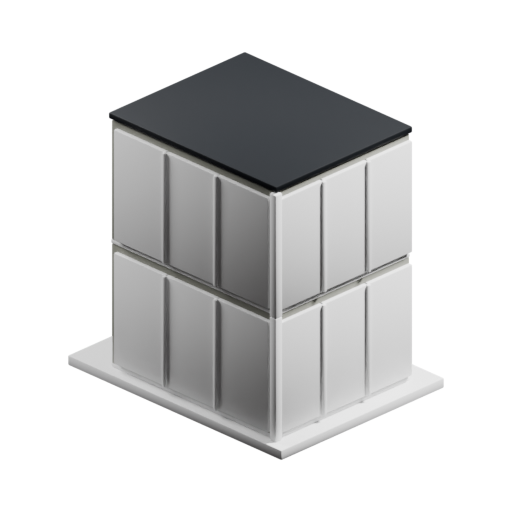
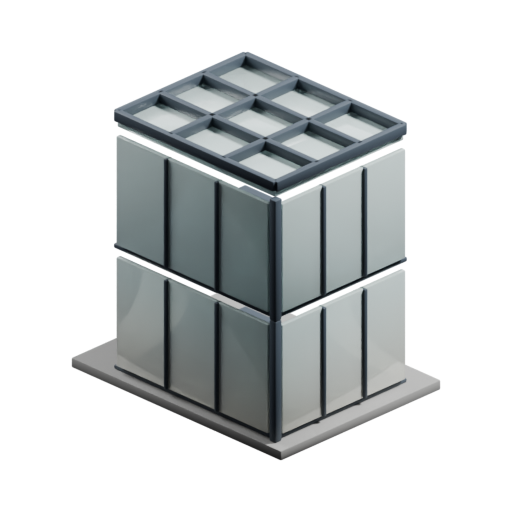
Rebuild the glass source as a greenhouse
It shared `_glazed_volume` with wood and stone, which is a clad box
with a glazed corner and an opaque roof cap. The reference glass
source is the opposite kind of thing: a building MADE of window, roof
included. Sharing one massing helper is why all three families read as
one generic building in different paint.

So glass gets its own builder. Full-envelope glazing, a mullion grid
over a glazed roof rather than a dark blade, and the frame corrected
to charcoal - it was coded cream on the theory the whole envelope
shared one tone, but the cream in the reference is the interior FLOOR
seen through the glass. The one dark structural note the drawing has
was being painted the lightest colour in it.

NOT the item chain's `gemstone()` recipe for the panes, which is the
obvious thing to reach for and is wrong here. That recipe brightens
through the studio's transmission-only banded sky, built for small
faceted stones that sweep across many band values; a large flat pane
samples one fixed point in that gradient. A single isolated pane with
the gem recipe rendered SOLID BLACK in a control test - no building
geometry involved - which is what sent every earlier attempt chasing
the enclosure. Moderate transmission over a glossy coat instead.

The floor is a height gradient on the glazing rather than a slab. A
real slab sits exactly where the walls' own thickness occludes it from
this camera on every tier; emission on it changed the render by
nothing at all.
[…]

diff --git a/src/game/facility/Crucible.ts b/src/game/facility/Crucible.ts
@@ -2,7 +2,7 @@ import { CHAINS, isCurrencyChain, isUtilityChain } from '../data/chains';
 import type { CrateTier } from '../rewards/Rewards';
 
 /**
- * THE MAX-TIER CONSUMER - rules only. Nothing draws it yet.
+ * THE MAX-TIER CONSUMER. Wired into BoardScene's feed/roll flow.
  *
  * The problem it exists for: an item at the top of its chain cannot merge
  * again, so the two most expensive things in the game are worth exactly what

diff --git a/tools/blender/render_items.py b/tools/blender/render_items.py
@@ -2947,9 +2947,20 @@ SOURCE_ROOF = {
 # Pale blue-grey daylight in the windows, warmer and paler on the glass
 # houses, whose whole envelope is glazing.
 SOURCE_GLAZING = {"wood": 0x93a4a5, "mineral": 0x8b9aa4, "glass": 0xd2e6e4}
-# The mullions and fascias. Cream on the glass houses, cool white on the
-# other two - the drawings are specific about that difference.
-SOURCE_FRAME = {"wood": 0xd1d2ce, "mineral": 0xc6cbce, "glass": 0xf4f3e6}
+# The mullions and fascias. Cool white on wood and stone.
+#
+# Glass was originally coded cream here too, on the assumption the whole
+# envelope shared one frame tone. Re-checked against the rendered
+# reference: the cream is the INTERIOR FLOOR seen THROUGH the glass, not
+# the frame - the frame itself is a dark charcoal-navy, the same family
+# of tone as the wood/stone roofs. That is why the glass source read as
+# an opaque grey box instead of a lit greenhouse: the one dark structural
+# note the reference has was being painted the lightest colour in it.
+SOURCE_FRAME = {"wood": 0xd1d2ce, "mineral": 0xc6cbce, "glass": 0x3c4650}
+# The floor a glass house's transparency exists to reveal. Only glass
+# needs one - the other two families are clad, so their interiors are
+# never seen.
+SOURCE_FLOOR_GLASS = 0xf4f2e6
 SOURCE_TERRACE = 0xa8a8a6
 
 # Storey height and the terrace slab. Both were measured against the
@@ -3035,6 +3046,33 @@ def _source_materials(family: str, tier: int):
             _tone(frame, "frame"), _tone(plinth, "terrace"))
 
 
+def _glaze_floor_gradient(mat):
+    """Warms a glazing material's base colour toward the floor tone low
+    down, standing in for the interior floor a real greenhouse would
+    show through it.
+
+    Object-space Z, not world Z: `translate_to` bakes each volume's
+    position into its own vertices, so a tall tier's upper storeys still
+    read as glass rather than inheriting the ground floor's warmth.
+    """
+    nodes, links = mat.node_tree.nodes, mat.node_tree.links
+    shader = _shader(mat)
+    coords = nodes.new("ShaderNodeTexCoord")
+    axis = nodes.new("ShaderNodeSeparateXYZ")
+    links.new(coords.outputs["Object"], axis.inputs["Vector"])
+    ramp = nodes.new("ShaderNodeValToRGB")
+    floor_rgb = tuple(srgb_to_linear((SOURCE_FLOOR_GLASS >> shift) & 255)
+                      for shift in (16, 8, 0))
+    glass_rgb = shader.inputs["Base Color"].default_value[:3]
+    ramp.color_ramp.elements[0].position = 0.0
+    ramp.color_ramp.elements[0].color = (*floor_rgb, 1.0)
+    ramp.color_ramp.elements[1].position = 0.34
+    ramp.color_ramp.elements[1].color = (*glass_rgb, 1.0)
+    links.new(axis.outputs["Z"], ramp.inputs["Fac"])
+    links.new(ramp.outputs["Color"], shader.inputs["Base Color"])
+    return mat
+
+
 def _glazed_volume(width, depth, storeys, base_z, origin, clad, glazing,
                    frames, clad_bay=True):
     """One volume: a glazed box with a clad bay down one side.
@@ -3096,6 +3134,155 @@ def _glazed_volume(width, depth, storeys, base_z, origin, clad, glazing,
                  base=False),
             (ox, oy, z0 + storey_h * 0.017)))
     return base_z + storeys * storey_h
+
+
+def _glass_volume(width, depth, storeys, base_z, origin, glazing, frames,
+                  floor, roof_glazing, roof_frames):
+    """One glass volume: a full-envelope greenhouse, walls AND roof glazed.
+
+    `_glazed_volume` clads one bay and leaves the roof an opaque blade,
+    which is right for wood and stone - they are buildings WITH windows.
+    The reference glass source is a building MADE of window: every face the
+    camera can see is glass, including the roof, and the frame is what
+    reads as its structure rather than its cladding.
+    """
+    ox, oy = origin
+    storey_h = SOURCE_STOREY * (1.34 if storeys == 1 else 1.0)
+    for storey in range(storeys):
+        z0 = base_z + storey * storey_h
+        mid = z0 + storey_h / 2
+        pane_h = storey_h * 0.90
+        # FULL-WIDTH GLAZING on both visible faces - no clad bay. The
+        # whole envelope is the material, which is the one thing every
+        # tier of the reference agrees on.
+        glazing.append(translate_to(
+            cube(width * 0.94, 0.016, pane_h, base=False),
+            (ox, oy + depth / 2 + 0.004, mid)))
+        glazing.append(translate_to(
+            cube(0.016, depth * 0.94, pane_h, base=False),
+            (ox - width / 2 - 0.004, oy, mid)))
+        frames.append(translate_to(
+            cube(0.026, 0.026, storey_h, base=False),
+            (ox - width / 2, oy + depth / 2, mid)))
+        for k in range(2):
+            u = (k + 1) / 3 - 0.5
+            frames.append(translate_to(
+                cube(0.014, 0.024, pane_h, base=False),
+                (ox + u * width * 0.94, oy + depth / 2 + 0.007, mid)))
+            frames.append(translate_to(
+                cube(0.024, 0.014, pane_h, base=False),
+                (ox - width / 2 - 0.007, oy + u * depth * 0.94, mid)))
+        frames.append(translate_to(
+            cube(width * 1.005, depth * 1.005, storey_h * 0.035, base=False),
+            (ox, oy, z0 + storey_h * 0.017)))
+        # THE FLOOR THE GLASS EXISTS TO SHOW. Ground storey only - the
+        # reference is never seen from high enough to need an upper one.
+        if storey == 0:
+            floor.append(translate_to(
+                cube(width * 0.92, depth * 0.92, 0.014, base=False),
+                (ox, oy, z0 + storey_h * 0.06)))
+    top = base_z + storeys * storey_h
+
+    # THE ROOF, GLAZED - a grid of panes rather than an opaque cap. Kept
+    # as its own group (`roof_glazing`/`roof_frames`) so it can be built
+    # from the SAME glazing material as the walls without the caller
+    # having to know that; a second material would read as two different
+    # buildings stacked on each other.
+    roof_h = 0.020
+    roof_glazing.append(translate_to(
+        cube(width * 0.98, depth * 0.98, roof_h, base=False),
+        (ox, oy, top + roof_h / 2)))
+    ridge = roof_h * 1.6
+    for gx in (-0.98, -0.33, 0.33, 0.98):
+        roof_frames.append(translate_to(
+            cube(0.022, depth * 0.99, ridge, base=False),
+            (ox + gx * width / 2, oy, top + roof_h + ridge / 2)))
+    for gy in (-0.98, -0.33, 0.33, 0.98):
+        roof_frames.append(translate_to(
+            cube(width * 0.99, 0.022, ridge, base=False),
+            (ox, oy + gy * depth / 2, top + roof_h + ridge / 2)))
+    return top + roof_h + ridge
+
+
+def build_glass_source():
+    """The glass dispenser: a greenhouse, tier by tier.
+
+    A dedicated builder rather than a `build_source_building("glass")`
+    call, because the construction is a different KIND of thing from wood
+    and stone - a fully glazed volume with a floor to see, not a clad box
+    with windows in it. Sharing `_glazed_volume` was what made every
+    family read as one generic building with different paint.
+    """
+    plan = SOURCE_PLAN["glass"]
+    out = {}
+    for index, (width, depth, storeys, wing) in enumerate(plan):
+        tier = index + 1
+        glaze_hex = SOURCE_GLAZING["glass"]
+        glazing_mat = tier_material("source-glass-glazing-%d" % tier,
+                                    glaze_hex, glaze_hex, max_gain=1.0)
+        # NOT the item chain's gemstone() recipe, even though it is the
+        # obvious thing to reach for. That recipe brightens through the
+        # studio's TRANSMISSION-ONLY banded sky, which is built for small
+        # FACETED stones sweeping across many band values - a large FLAT
+        # pane samples one fixed point in that gradient instead, and a
+        # single isolated pane with the gem recipe rendered solid black
+        # in a control test to prove it, independent of this building's
+        # geometry entirely.
+        #
+        # This is a moderate transmission over a glossy coat instead, so
+        # the pane's brightness comes mostly from reflecting the studio
+        # normally rather than gambling on one lucky sample of the gem
+        # sky - and a height gradient toward the floor's cream tone,
+        # since a literal floor slab sits exactly where the walls' own
+        # thickness occludes it from this camera on every tier.
+        glazing_shader = _shader(glazing_mat)
+        glazing_shader.inputs["Transmission Weight"].default_value = 0.5
+        glazing_shader.inputs["Metallic"].default_value = 0.10
+        glazing_shader.inputs["Roughness"].default_value = 0.06
+        glazing_shader.inputs["IOR"].default_value = 1.45
+        polished(glazing_mat, coat_roughness=0.05)
+        _glaze_floor_gradient(glazing_mat)
+
+        frame_hex = SOURCE_FRAME["glass"]
+        frame_mat = tier_material("source-glass-frame-%d" % tier, frame_hex,
+                                  frame_hex, max_gain=1.0)
+        _shader(frame_mat).inputs["Roughness"].default_value = 0.42
+        _tone(frame_mat, "frame")
+
+        plinth_mat = tier_material("source-glass-terrace-%d" % tier,
+                                   SOURCE_TERRACE, SOURCE_TERRACE,
+                                   max_gain=1.0)
+        _shader(plinth_mat).inputs["Roughness"].default_value = 0.66
+        _tone(plinth_mat, "terrace")
+
+        glazing, frames, roof_glazing, roof_frames = [], [], [], []
+        floor: list = []  # unused now - kept so `_glass_volume`'s signature stays one shape
+        plinth = [translate_to(
+            cube(width * 1.30, depth * 1.22, SOURCE_PLINTH, base=False),
+            (width * 0.06, -depth * 0.04, SOURCE_PLINTH / 2))]
+
+        _glass_volume(width, depth, storeys, SOURCE_PLINTH, (0.0, 0.0),
+                     glazing, frames, floor, roof_glazing, roof_frames)
+        if wing:
+            w_w, w_d, w_s = wing
+            spot = (-(width + w_w) / 2 + 0.02, depth * 0.16)
+            _glass_volume(w_w, w_d, w_s, SOURCE_PLINTH, spot,
+                         glazing, frames, floor, roof_glazing, roof_frames)
+
+        parts = []
+        for name, group, material in (
+            ("glazing", glazing + roof_glazing, glazing_mat),
+            ("frame", frames + roof_frames, frame_mat),
+            ("plinth", plinth, plinth_mat),
+        ):
+            if not group:
+                continue
+            solid = stack(group)
+            finish(solid, "source-glass-%d-%s" % (tier, name), material,
+                   bevel=0.004)
+            parts.append(solid)
+        out[tier] = stack(parts)
+    return out
 
 
 def build_source_building(family: str):
@@ -6238,8 +6425,8 @@ def main(only: str = ""):
     # dispenser is not a member of an item ladder - it never sits beside an
     # item for comparison - so it takes the whole canvas at every tier
     # rather than a shared family scale.
-    sources = [("water", build_water_source)]
-    for building in ("wood", "mineral", "glass"):
+    sources = [("water", build_water_source), ("glass", build_glass_source)]
+    for building in ("wood", "mineral"):
         sources.append((building,
                         (lambda f: lambda: build_source_building(f))(building)))
     for family, build in sources:
